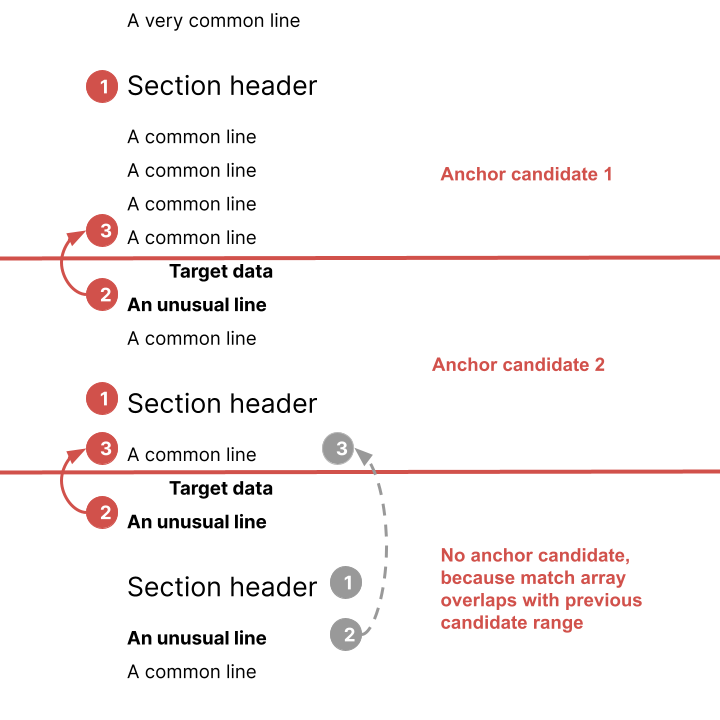
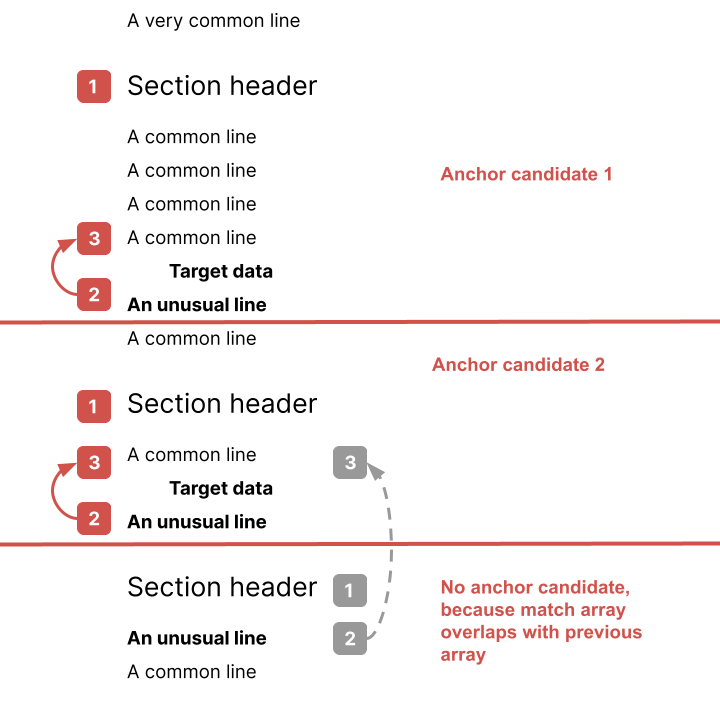
correction

Changed region(s): [[0.0, 0.5194, 1.0, 0.9167], [0.0, 0.275, 1.0, 0.4583], [0.0917, 0.0917, 0.1833, 0.1528]]

diff --git a/readme-sync/v0/senseml-reference/2000 - field-query-object/1100 - match.md b/readme-sync/v0/senseml-reference/2000 - field-query-object/1100 - match.md
@@ -289,7 +289,7 @@ The following image shows the example PDF used with this example config:
 
 **Notes**
 
-Sensible searches for anchor candidates in sequence, and rules out overlapping candidates. In other words, after Sensible identifies an anchor candidate, it ignores that anchor line and its preceding lines when searching for the next candidate. The following image illustrates this behavior for the example config:
+Sensible searches for anchor candidates in sequence, and rules out overlapping match arrays. The following image illustrates this behavior for the example config:
 
 ![Click to enlarge](https://raw.githubusercontent.com/sensible-hq/sensible-docs/main/readme-sync/assets/v0/images/final/reverse_2.png)
 
